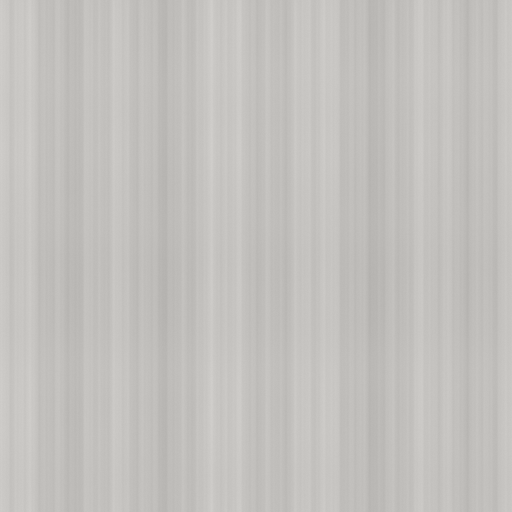
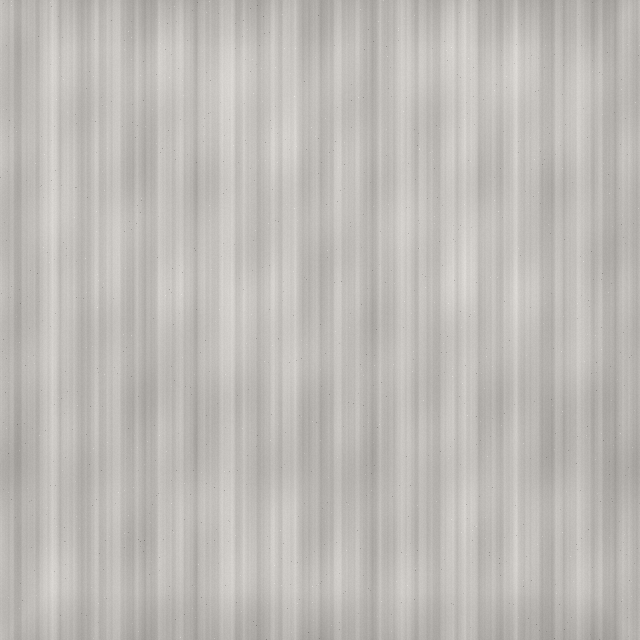
Add irregular grain, grit, and edge wear to metal
Round-13 climb on critic gap: stronger brush striations, pit/scuff
noise, edge darkening, and stronger texture blend so the chassis
reads aged rather than clean UI skin.

diff --git a/src/style.css b/src/style.css
@@ -134,8 +134,8 @@ select {
       #cbc2b8 82%,
       #aea59c 100%
     );
-  background-size: auto, auto, auto, auto, auto, 180px 180px, auto;
-  background-blend-mode: normal, normal, normal, normal, normal, soft-light, normal;
+  background-size: auto, auto, auto, auto, auto, 220px 220px, auto;
+  background-blend-mode: normal, normal, normal, normal, soft-light, overlay, normal;
   overflow: hidden;
   box-shadow:
     0 2px 7px rgba(0, 0, 0, 0.55),
